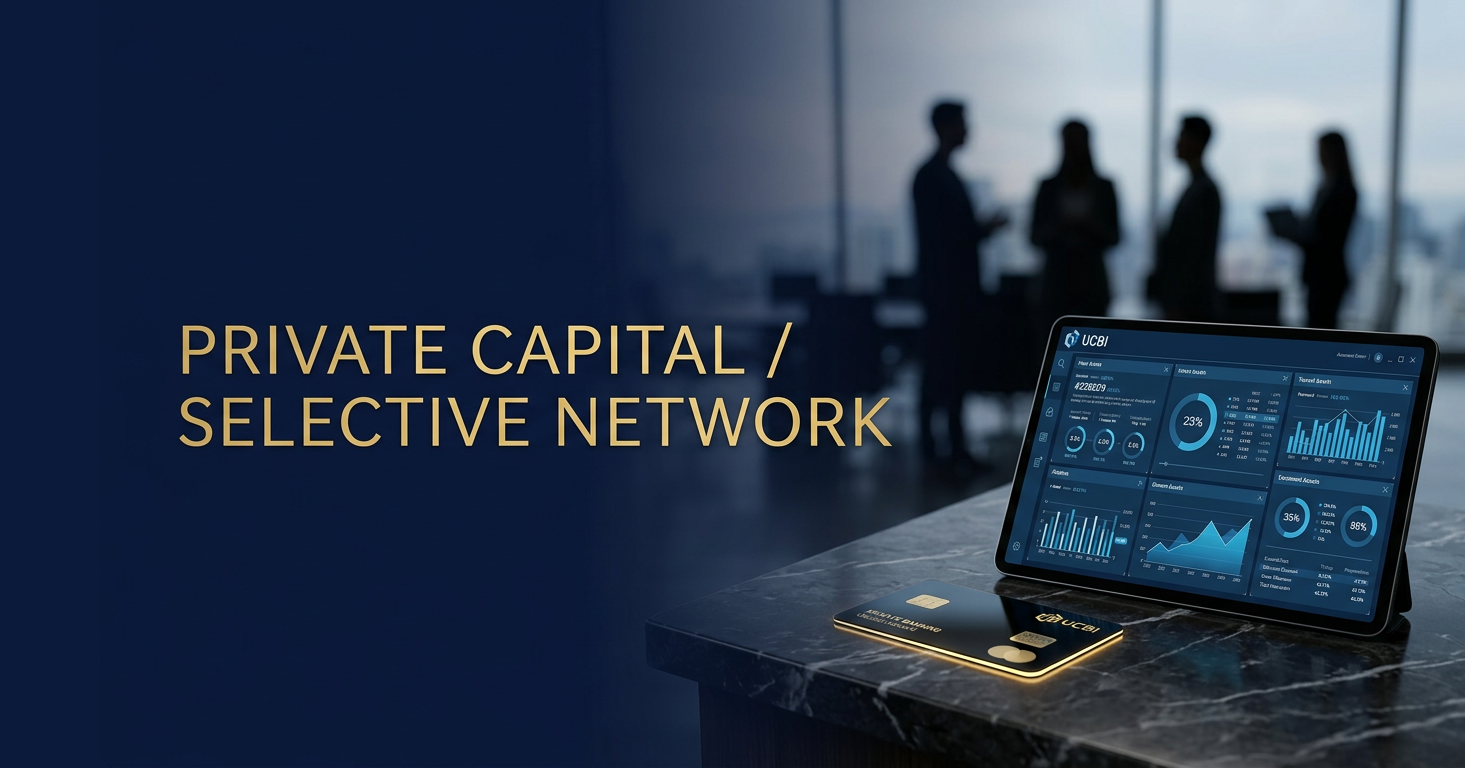
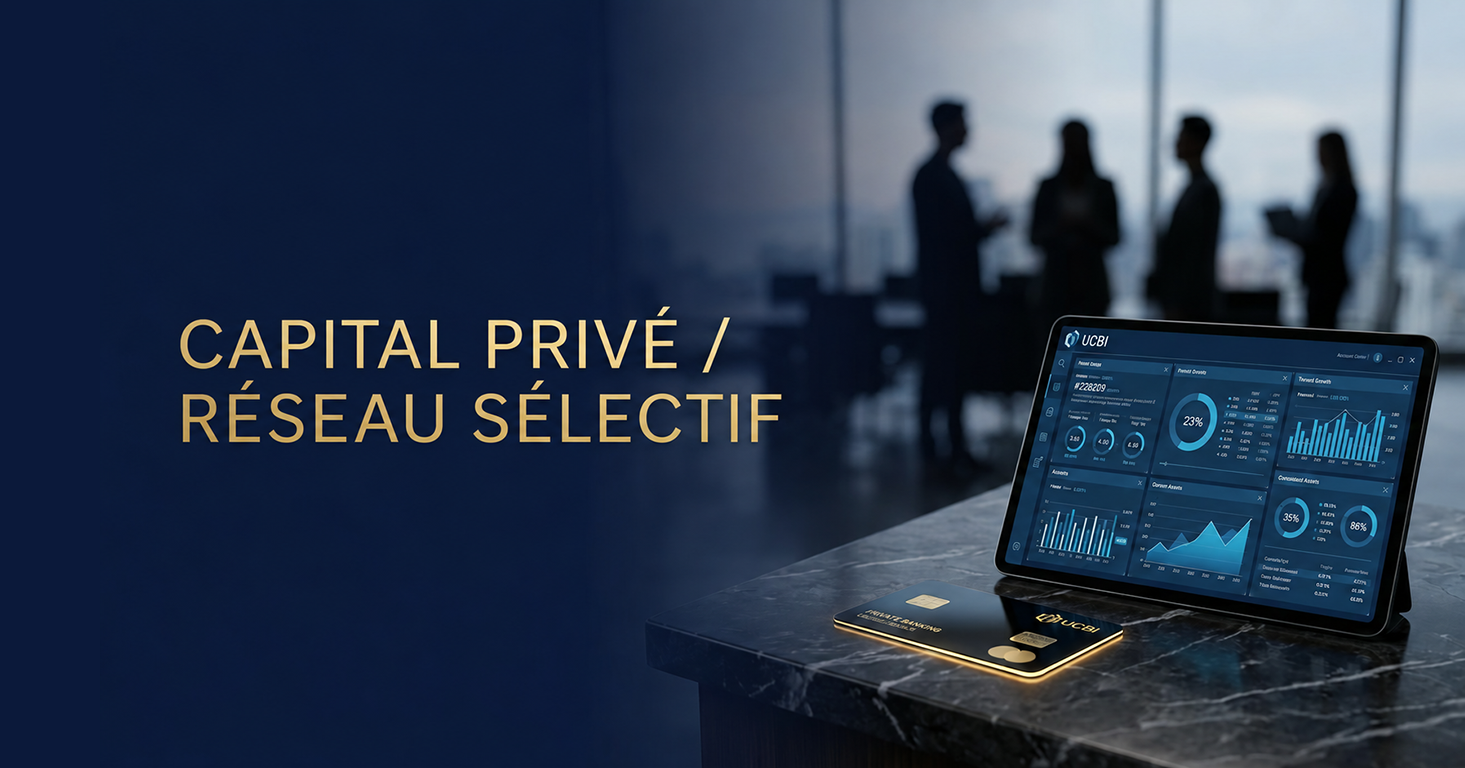
thumbnabil changes

diff --git a/components/fr/sections/video/GrowthVideoSection.module.css b/components/fr/sections/video/GrowthVideoSection.module.css
@@ -32,7 +32,7 @@
   width: 100%;
   height: 100%;
   background: linear-gradient(180deg, rgba(3, 10, 22, 0.3) 0%, rgba(3, 10, 22, 0.85) 100%), 
-              url("../../../../public/images/tfr.png") center/cover no-repeat;
+              url("../../../../public/images/vcover_fr.png") center/cover no-repeat;
   display: flex;
   flex-direction: column;
   justify-content: center;
@@ -44,7 +44,7 @@
 
 .videoOverlay:hover {
   background: linear-gradient(180deg, rgba(3, 10, 22, 0.15) 0%, rgba(3, 10, 22, 0.75) 100%), 
-              url("../../../../public/images/tfr.png") center/cover no-repeat;
+              url("../../../../public/images/vcover_fr.png") center/cover no-repeat;
 }
 
 .playBtn {

diff --git a/components/sections/video/GrowthVideoSection.module.css b/components/sections/video/GrowthVideoSection.module.css
@@ -32,7 +32,7 @@
   width: 100%;
   height: 100%;
   background: linear-gradient(180deg, rgba(3, 10, 22, 0.3) 0%, rgba(3, 10, 22, 0.85) 100%), 
-              url("../../../public/images/ten.png") center/cover no-repeat;
+              url("../../../public/images/vcover_en.png") center/cover no-repeat;
   display: flex;
   flex-direction: column;
   justify-content: center;
@@ -44,7 +44,7 @@
 
 .videoOverlay:hover {
   background: linear-gradient(180deg, rgba(3, 10, 22, 0.15) 0%, rgba(3, 10, 22, 0.75) 100%), 
-              url("../../../public/images/ten.png") center/cover no-repeat;
+              url("../../../public/images/vcover_en.png") center/cover no-repeat;
 }
 
 .playBtn {
